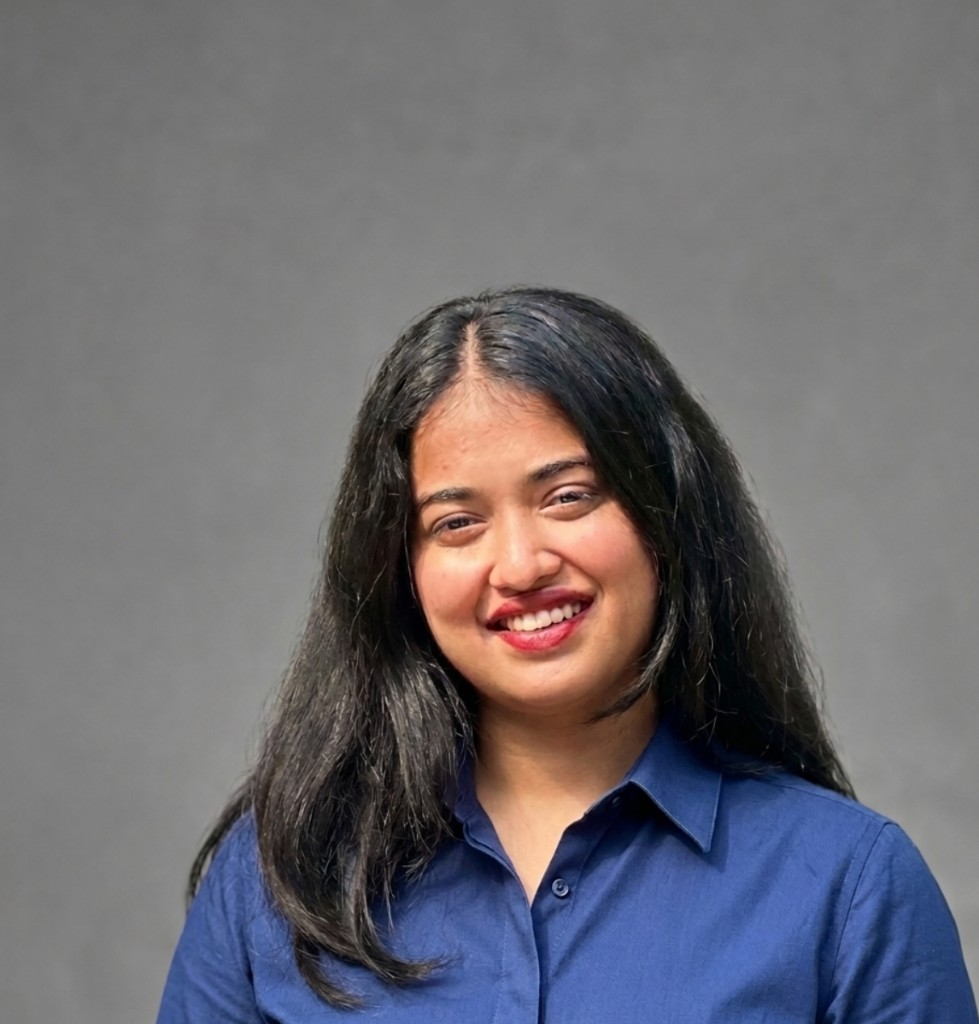
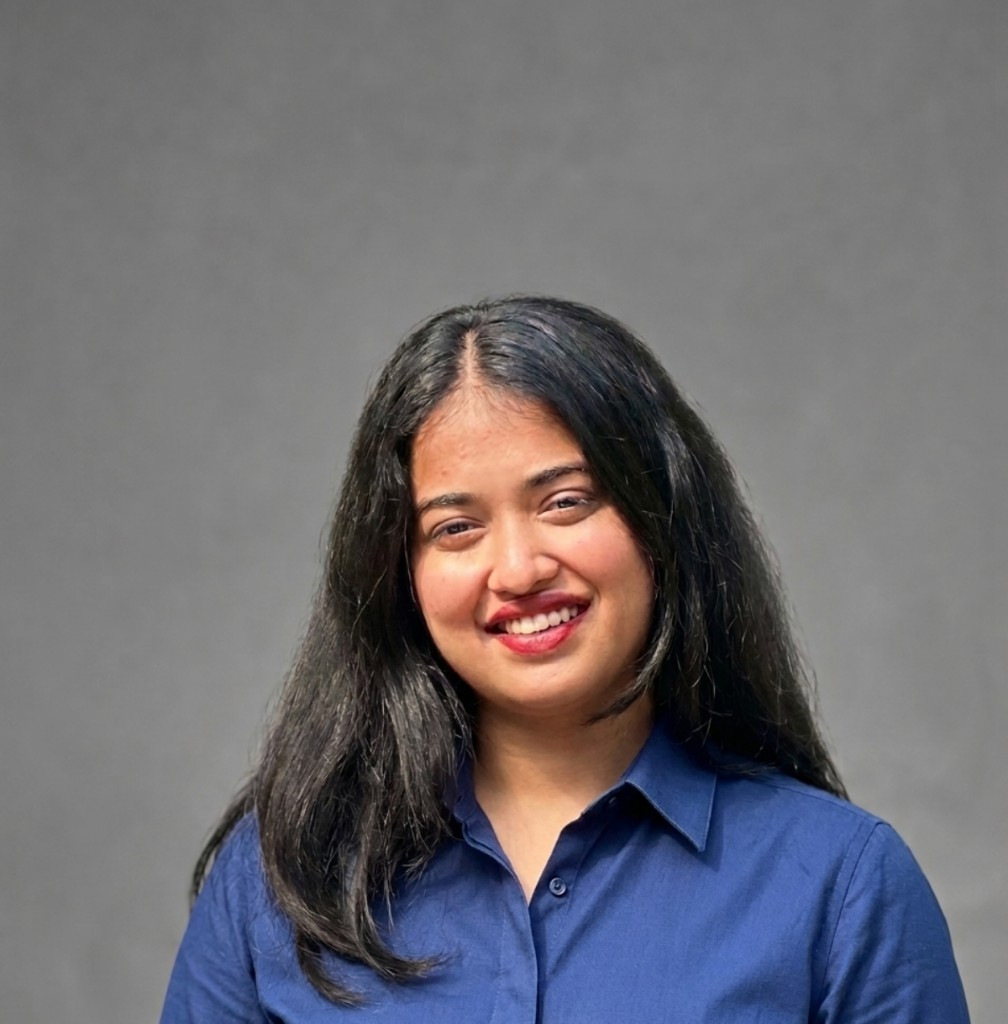
Update hero, experience timeline, and profile photo.
Remove Johnson Controls badge, rename Experience section, add connected dots timeline, and refresh headshot.

Changed region(s): [[0.1839, 0.2812, 1.0, 1.0]]

diff --git a/src/components/ExperienceSection.tsx b/src/components/ExperienceSection.tsx
@@ -81,18 +81,19 @@ const ExperienceSection = () => {
           <div className="mb-8 flex flex-col gap-6 md:flex-row md:items-end md:justify-between">
             <div>
               <p className="portfolio-label mb-3">01 · Experience</p>
-              <h2 className="portfolio-title max-w-3xl">Industry and research experience.</h2>
+              <h2 className="portfolio-title max-w-3xl">Experience.</h2>
             </div>
             <p className="max-w-md text-sm leading-6 text-[#5b6472]">
-              Digital engineering at Johnson Controls, data science research at iCitizen, teaching at RIT, and earlier
-              work in analytics and machine learning.
+              Data science research, teaching, analytics, and machine learning across industry and academic settings.
             </p>
           </div>
         </div>
 
-        <div className="space-y-0">
+        <div className="relative border-l border-[#cfc7bd] pl-8 md:pl-10">
           {experiences.map((exp, index) => (
-            <article key={index} className="portfolio-divider py-10 first:border-t-0">
+            <article key={index} className={`relative ${index < experiences.length - 1 ? "pb-12" : ""}`}>
+              <span className="absolute -left-[calc(2rem+0.5px)] top-1 h-3 w-3 rounded-full border-2 border-[#111827] bg-[#f7f6f3] md:-left-[calc(2.5rem+0.5px)]" />
+
               <div className="grid gap-8 md:grid-cols-[220px_1fr]">
                 <div className="space-y-3">
                   <p className="portfolio-label text-[#6b7280]">{exp.label}</p>
@@ -100,7 +101,7 @@ const ExperienceSection = () => {
                   <p className="text-sm text-[#5b6472]">{exp.location}</p>
                 </div>
 
-                <div className="space-y-5">
+                <div className={`space-y-5 ${index < experiences.length - 1 ? "portfolio-divider pb-10" : ""}`}>
                   <div>
                     <p className="text-sm font-semibold uppercase tracking-[0.12em] text-[#6b7280]">{exp.company}</p>
                     <h3 className="mt-2 font-serif text-3xl text-[#111827]">{exp.title}</h3>

diff --git a/src/components/HeroSection.tsx b/src/components/HeroSection.tsx
@@ -13,11 +13,6 @@ const HeroSection = () => {
     <section id="hero" className="portfolio-section pt-32 md:pt-36">
       <div className="mx-auto grid max-w-6xl items-center gap-12 px-6 lg:grid-cols-[1.1fr_0.9fr]">
         <div className="space-y-8">
-          <div className="flex items-center gap-2 text-xs font-semibold uppercase tracking-[0.18em] text-[#5b6472]">
-            <span className="h-2 w-2 rounded-full bg-emerald-500" />
-            Johnson Controls · Digital Engineering Intern
-          </div>
-
           <div className="space-y-4">
             <h1 className="portfolio-title">Aditi Reddy Doma</h1>
             <p className="max-w-xl text-lg font-medium leading-relaxed text-[#374151] md:text-xl">
@@ -26,8 +21,8 @@ const HeroSection = () => {
           </div>
 
           <p className="max-w-xl text-base leading-7 text-[#5b6472]">
-            Currently a Digital Engineering Intern at Johnson Controls in California. M.S. Data Science candidate at
-            Rochester Institute of Technology with experience across ETL pipelines, dashboards, research, and teaching.
+            M.S. Data Science candidate at Rochester Institute of Technology with experience across ETL pipelines,
+            dashboards, research, and teaching.
           </p>
 
           <div className="flex flex-wrap items-center gap-3">
